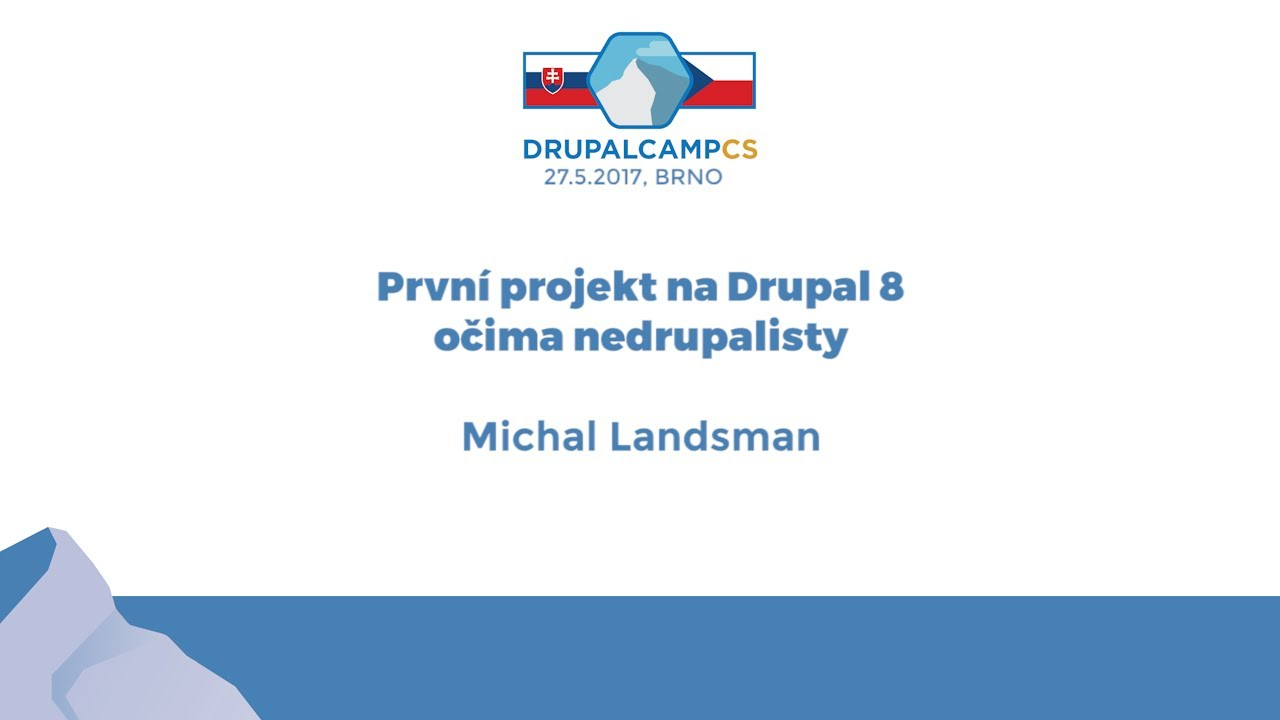
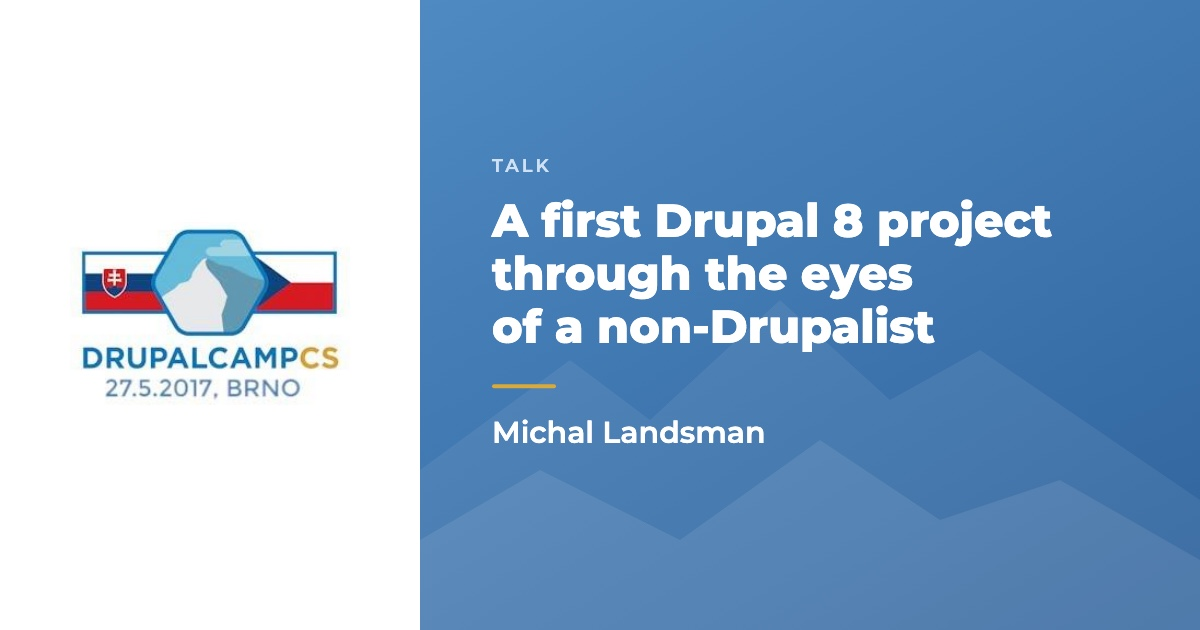
fe(insuit): load the drupalcamp talk only when played, from a new english title card

diff --git a/insuit/scripts/cv.js b/insuit/scripts/cv.js
@@ -73,15 +73,15 @@ const card = ({ heading, images, tall, rest }) => {
   const [logo = ""] = images;
   // In the dialog every image is a button that opens it full size (assets/js/cv.js).
   const zoomable = images.map((i) => `<button type="button" class="photo-zoom">${i}</button>`);
-  // A project that links a YouTube video plays it in the dialog in place of its
-  // pictures; the first picture stays its card. youtube-nocookie keeps the
-  // player from setting cookies until someone presses play.
+  // A project that links a YouTube video shows its first picture with a play
+  // button in the dialog; nothing loads from YouTube until that is pressed, and
+  // then the player replaces it and starts (assets/js/cv.js).
   const video = rest
     .map((t) => t.raw)
     .join("")
     .match(/youtube\.com\/watch\?v=([\w-]+)/)?.[1];
   const pictures = video
-    ? `<iframe class="project-video" src="https://www.youtube-nocookie.com/embed/${video}" title="${heading.text}" loading="lazy" referrerpolicy="strict-origin-when-cross-origin" allow="encrypted-media; picture-in-picture; fullscreen" allowfullscreen></iframe>`
+    ? `<button type="button" class="photo-zoom video-play" data-video="${video}" aria-label="Play the video: ${heading.text}">${logo}<span class="video-badge" aria-hidden="true"><span class="icon-play"></span></span></button>`
     : images.length > 1
       ? `<div class="project-gallery${tall.filter(Boolean).length > tall.length / 2 ? " project-gallery-tall" : ""}">${zoomable.join("")}</div>`
       : zoomable.join("");

diff --git a/insuit/site/assets/css/tokens.css b/insuit/site/assets/css/tokens.css
@@ -38,6 +38,9 @@
   --backdrop: rgb(0 0 0 / 0.5);
   --backdrop-strong: rgb(0 0 0 / 0.94);
   --photo-close: #ffffff;
+  /* The play button sits on a picture, not the page, so it stays white. */
+  --play: #ffffff;
+  --play-badge: rgb(0 0 0 / 0.7);
 
   /* Layout */
   --wrapper-width: 800px;
@@ -68,6 +71,7 @@
   --cv-thumb-width: 200px;
   --gallery-inset: 6px;
   --cv-thumb-height: 160px;
+  --play-size: 64px;
   --thumb-padding: 6px;
   --photo-caption-room: 4em;
   /* The logos are 1200×630 share cards; a logo-less tile takes the same shape. */
@@ -98,6 +102,8 @@
   --color-backdrop: var(--backdrop);
   --color-backdrop-strong: var(--backdrop-strong);
   --color-photo-close: var(--photo-close);
+  --color-play: var(--play);
+  --color-play-badge: var(--play-badge);
 }
 
 @media (prefers-color-scheme: dark) {
@@ -112,6 +118,8 @@
     --color-backdrop: var(--backdrop);
     --color-backdrop-strong: var(--backdrop-strong);
     --color-photo-close: var(--photo-close);
+    --color-play: var(--play);
+    --color-play-badge: var(--play-badge);
   }
 }
 
@@ -126,6 +134,8 @@
   --color-backdrop: var(--backdrop);
   --color-backdrop-strong: var(--backdrop-strong);
   --color-photo-close: var(--photo-close);
+  --color-play: var(--play);
+  --color-play-badge: var(--play-badge);
 }
 
 :root[data-theme="dark"] {
@@ -139,4 +149,6 @@
   --color-backdrop: var(--backdrop);
   --color-backdrop-strong: var(--backdrop-strong);
   --color-photo-close: var(--photo-close);
+  --color-play: var(--play);
+  --color-play-badge: var(--play-badge);
 }

diff --git a/insuit/site/assets/css/components/cv.css b/insuit/site/assets/css/components/cv.css
@@ -422,3 +422,39 @@ html:has(.cv) {
   border: var(--border-width) solid var(--color-border);
   border-radius: var(--cv-image-radius);
 }
+
+/* A video waits as its picture with a play button over it, in the same frame
+   as the photos, at the full width of the player that replaces it. */
+#project-dialog-content > .video-play {
+  position: relative;
+  max-width: none;
+  cursor: pointer;
+}
+#project-dialog-content > .video-play img {
+  max-width: none;
+}
+/* A dark round badge carries the white triangle, so it reads over any picture,
+   title text included. */
+.video-badge {
+  position: absolute;
+  top: 50%;
+  left: 50%;
+  display: grid;
+  place-items: center;
+  width: var(--play-size);
+  height: var(--play-size);
+  border-radius: 50%;
+  background: var(--color-play-badge);
+  transform: translate(-50%, -50%);
+  transition: transform var(--speed);
+}
+.video-badge .icon-play {
+  width: 45%;
+  height: 45%;
+  margin-left: 8%;
+  background: var(--color-play);
+}
+.video-play:hover .video-badge,
+.video-play:focus-visible .video-badge {
+  transform: translate(-50%, -50%) scale(1.1);
+}

diff --git a/insuit/site/assets/js/cv.js b/insuit/site/assets/js/cv.js
@@ -35,6 +35,21 @@
   document.addEventListener("click", function (event) {
     var target = /** @type {HTMLElement} */ (event.target);
 
+    // A video's picture turns into the player, started. Only now does anything
+    // load from YouTube; youtube-nocookie sets no cookies until playback.
+    var play = /** @type {HTMLElement | null} */ (target.closest(".video-play"));
+    if (play) {
+      var player = document.createElement("iframe");
+      player.className = "project-video";
+      player.src = "https://www.youtube-nocookie.com/embed/" + play.dataset.video + "?autoplay=1";
+      player.title = play.getAttribute("aria-label") || "Video";
+      player.allow = "autoplay; encrypted-media; picture-in-picture; fullscreen";
+      player.allowFullscreen = true;
+      player.referrerPolicy = "strict-origin-when-cross-origin";
+      play.replaceWith(player);
+      return;
+    }
+
     var zoom = target.closest(".photo-zoom");
     if (zoom) {
       var all = document.querySelectorAll("#project-dialog-content .photo-zoom img");

diff --git a/insuit/site/assets/css/components/icons.css b/insuit/site/assets/css/components/icons.css
@@ -7,7 +7,8 @@
    an element that happened to carry another class first. */
 
 .icon-theme,
-.icon-external {
+.icon-external,
+.icon-play {
   flex: none;
   width: var(--icon-size);
   height: var(--icon-size);
@@ -28,4 +29,9 @@
 .icon-external {
   -webkit-mask-image: url("/assets/icons/external.svg");
   mask-image: url("/assets/icons/external.svg");
+}
+
+.icon-play {
+  -webkit-mask-image: url("/assets/icons/play.svg");
+  mask-image: url("/assets/icons/play.svg");
 }

diff --git a/insuit/site/cv.md b/insuit/site/cv.md
@@ -297,7 +297,7 @@ indistinguishable from the native screens around it.
 
 [youtube.com](https://www.youtube.com/watch?v=DnQjnqFo1z8)
 
-![The title slide: První projekt na Drupal 8 očima nedrupalisty, Michal Landsman, DrupalCamp CS, 27 May 2017, Brno](/assets/cv/drupalcamp-2017.jpg)
+![Talk: A first Drupal 8 project through the eyes of a non-Drupalist, Michal Landsman, DrupalCamp CS, 27 May 2017, Brno](/assets/cv/drupalcamp-2017.jpg)
 
 "První projekt na Drupal 8 očima nedrupalisty": the first project on Drupal 8,
 seen through the eyes of someone who was not a Drupal developer. A talk in
